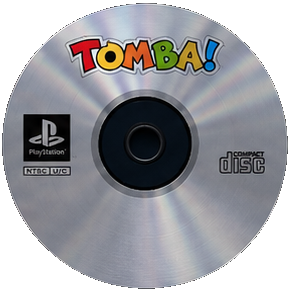
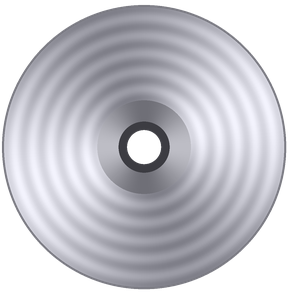
fix(launcher): Linux BIOS/disc picker, generic disc art, ASCII window title
The post-launcher BIOS/disc prompt had no POSIX implementation, so a Linux
player without a pre-set path could never start the game. It now reuses the
launcher's zenity/kdialog/qarma chooser (exported as psx_launcher::pick_file).
The disc art carried the Tomba! label and the window title's em dash rendered
as mojibake under some window managers.

diff --git a/runtime/src/main.cpp b/runtime/src/main.cpp
@@ -422,6 +422,15 @@ static bool pick_runtime_file(const char* title, const char* filter,
     if (!GetOpenFileNameA(&ofn)) return false;
     out = path_buf;
     return true;
+#elif defined(PSX_LAUNCHER)
+    const std::string picked = psx_launcher::pick_file(title, filter);
+    if (picked.empty()) {
+        std::fprintf(stderr, "psxrecomp: %s — cancelled, or no file chooser "
+                             "(install zenity or kdialog).\n", title);
+        return false;
+    }
+    out = picked;
+    return true;
 #else
     (void)filter;
     (void)out;
@@ -2427,7 +2436,7 @@ int main(int argc, char** argv) {
             int lwin_h = 0;
             clamp_window_aspect(&lwin_w, &lwin_h, 4, 3);
             std::string lwin_title = (game_name.empty() ? std::string("PSX") : game_name)
-                                     + " \xE2\x80\x94 Launcher";
+                                     + " - Launcher";
             SDL_Window* lwin = SDL_CreateWindow(
                 lwin_title.c_str(), SDL_WINDOWPOS_CENTERED, SDL_WINDOWPOS_CENTERED,
                 lwin_w, lwin_h, SDL_WINDOW_OPENGL | SDL_WINDOW_SHOWN | SDL_WINDOW_RESIZABLE);

diff --git a/runtime/launcher/launcher.h b/runtime/launcher/launcher.h
@@ -57,4 +57,9 @@ Result run(SDL_Window* window, void* gl_context,
            PSXRecompV4::UserSettings& io,
            const GameInfo& game, const char* assets_dir);
 
+// Native open-file dialog (Win32, or zenity/kdialog/qarma on POSIX), usable
+// outside the launcher loop. Returns "" on cancel or when no chooser exists.
+// `filter` is a Win32 double-null filter; ignored on POSIX.
+std::string pick_file(const char* title, const char* filter);
+
 } // namespace psx_launcher

diff --git a/runtime/launcher/launcher.cpp b/runtime/launcher/launcher.cpp
@@ -630,6 +630,10 @@ bool load_fonts(const fs::path& assets_dir) {
 
 namespace psx_launcher {
 
+std::string pick_file(const char* title, const char* filter) {
+    return win_pick_file(nullptr, title, filter);
+}
+
 Result run(SDL_Window* window, void* gl_context,
            PSXRecompV4::UserSettings& io,
            const GameInfo& game, const char* assets_dir)
